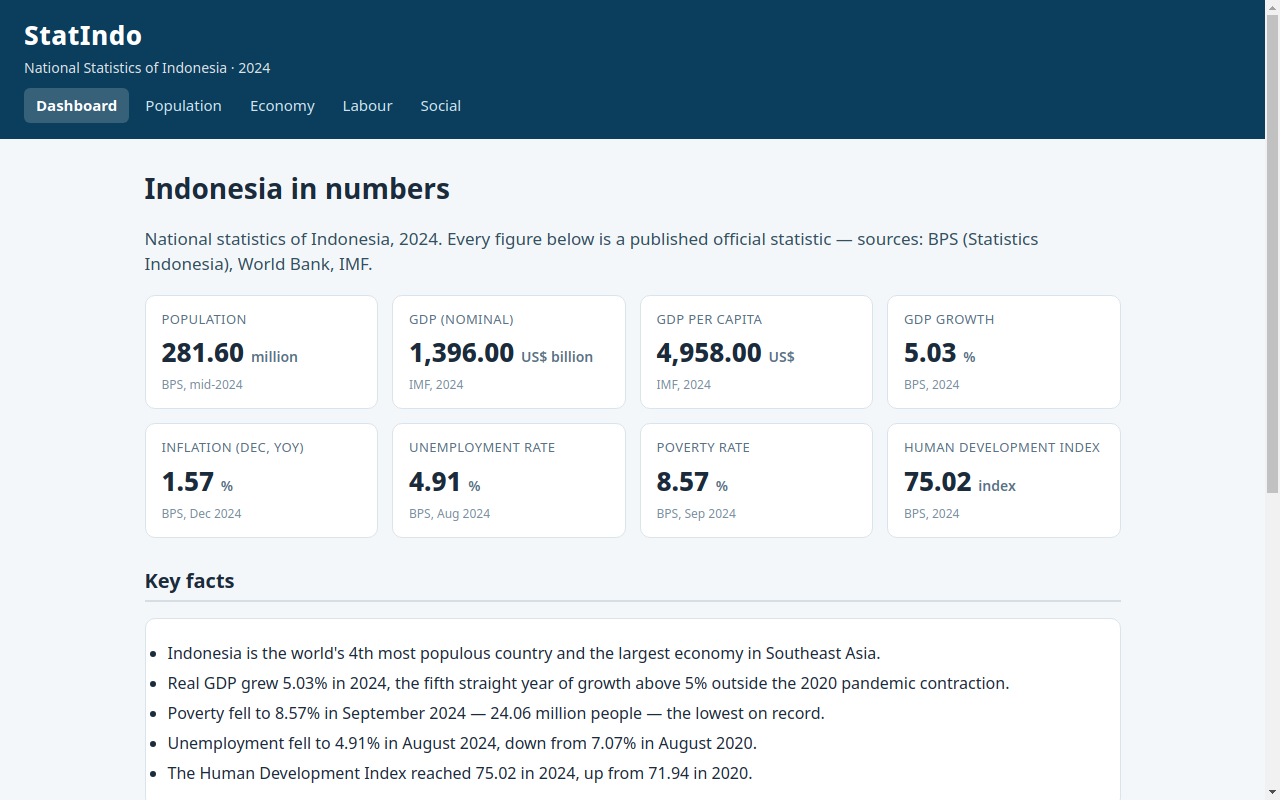
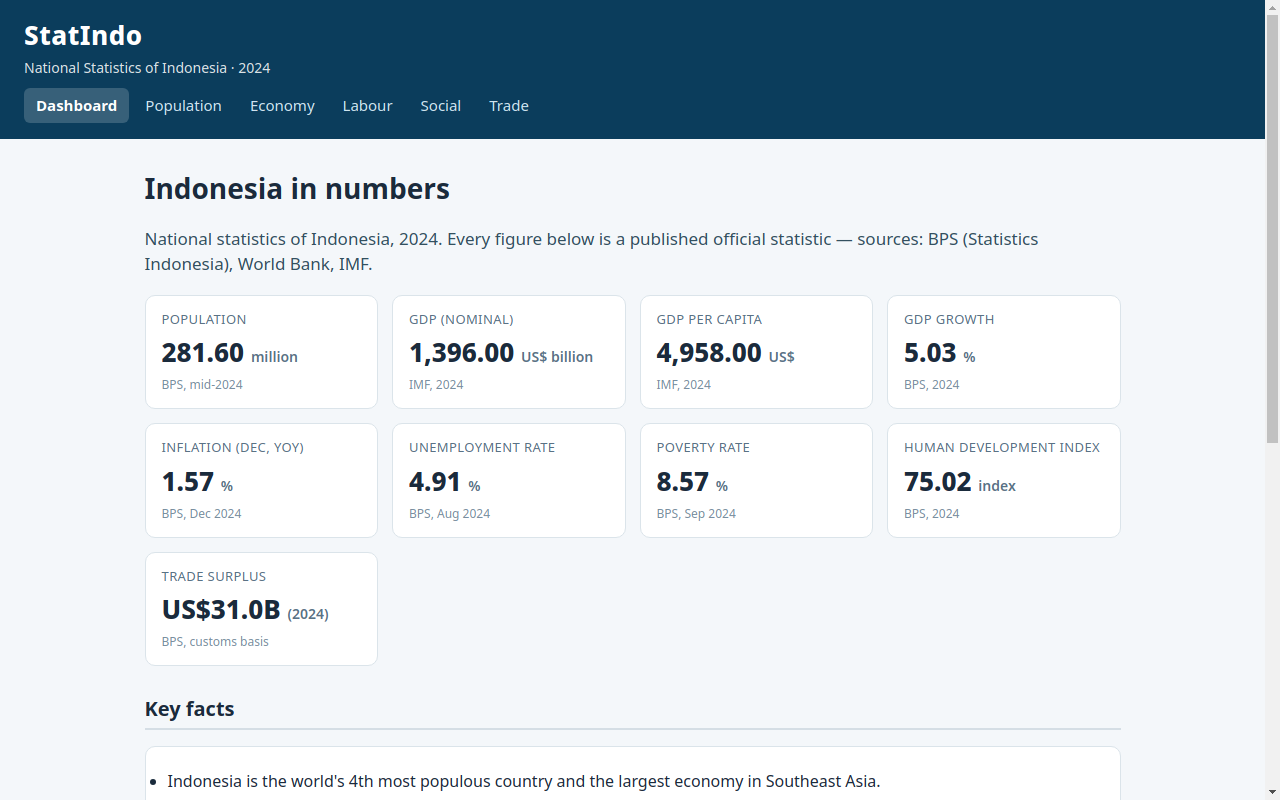
v2: add Trade & Investment view (exports/imports/FDI 2024), dashboard surplus card, new screenshots

Changed region(s): [[0.0938, 0.6875, 0.875, 1.0], [0.9688, 0.5625, 1.0, 0.625], [0.375, 0.125, 0.4062, 0.1562]]

diff --git a/app/views.js b/app/views.js
@@ -1,4 +1,4 @@
-// Shared markup keeps the five views consistent. DATA is the only data source.
+// Shared markup keeps the six views consistent. DATA is the only data source.
 const VIEWS = (() => {
   const format = (value, digits = 0) => Number(value).toLocaleString("en-US", {
     minimumFractionDigits: digits,
@@ -9,6 +9,8 @@ const VIEWS = (() => {
   const heading = text => `<h2>${text}</h2>`;
   const page = (title, description, ...content) =>
     `<h1>${title}</h1><p class="lede">${description}</p>${content.join("")}`;
+  const card = (label, value, unit, note) =>
+    `<div class="card"><div class="card-label">${label}</div><div class="card-value">${value} <span class="card-unit">${unit}</span></div><div class="card-note">${note}</div></div>`;
 
   function table(columns, rows) {
     const header = columns.map(label => `<th>${label}</th>`).join("");
@@ -34,9 +36,10 @@ const VIEWS = (() => {
       `<div class="card"><div class="card-label">${item.label}</div><div class="card-value">${format(item.value, 2)} <span class="card-unit">${item.unit}</span></div><div class="card-note">${item.note}</div></div>`
     ).join("");
     const facts = DATA.facts.map(text => `<li>${text}</li>`).join("");
+    const tradeCard = card("Trade surplus", `US$${format(DATA.trade.goods.surplus, 1)}B`, `(${DATA.trade.year})`, DATA.trade.goods.source);
     return page("Indonesia in numbers",
       `National statistics of Indonesia, ${DATA.year}. Every figure below is a published official statistic — sources: ${DATA.sources}.`,
-      `<div class="grid">${cards}</div>`,
+      `<div class="grid">${cards}${tradeCard}</div>`,
       heading("Key facts"), `<ul class="facts">${facts}</ul>`,
       heading("At a glance: growth and poverty"),
       `<div class="two-col"><div>${trend("gdpGrowth")}</div><div>${trend("poverty")}</div></div>`,
@@ -103,7 +106,50 @@ const VIEWS = (() => {
     );
   }
 
-  return { dashboard, population, economy, labour, social };
+  function trade() {
+    const values = DATA.trade;
+    const goods = values.goods;
+    const investment = values.investment;
+    const cards = [
+      card("Goods exports", `US$${format(goods.exports, 1)}`, "billion", `${goods.source}; +${format(goods.exportsGrowth, 1)}% vs 2023`),
+      card("Goods imports", `US$${format(goods.imports, 1)}`, "billion", `${goods.source}; +${format(goods.importsGrowth, 1)}% vs 2023`),
+      card("Goods trade surplus", `US$${format(goods.surplus, 1)}`, "billion", `${goods.source}; ${values.year}`),
+      card("Foreign direct investment", `IDR ${format(investment.fdi, 1)}`, "trillion", `${investment.source}; ${format(investment.fdiShare, 1)}% of investment realization`),
+    ].join("");
+    const markets = values.markets.map(market => [
+      market.rank,
+      market.name,
+      market.exports === undefined ? "—" : `US$${format(market.exports, 1)} billion`,
+    ]);
+    const investmentRows = [
+      ["Total investment realization", `IDR ${format(investment.total, 1)} trillion (+${format(investment.growth, 1)}% vs 2023)`],
+      ["Foreign direct investment (FDI)", `IDR ${format(investment.fdi, 1)} trillion (${format(investment.fdiShare, 1)}%)`],
+      ["Domestic investment", `IDR ${format(investment.domestic, 1)} trillion (${format(investment.domesticShare, 1)}%)`],
+      ["Jobs created", `${format(investment.jobs, 2)} million`],
+    ];
+    return page("Trade & Investment",
+      `Goods trade and investment realization in ${values.year}. Trade values are in US$; investment amounts are in Indonesian rupiah (IDR).`,
+      `<div class="grid">${cards}</div>`,
+      `<p>Trade surplus every month since ${goods.surplusSince} (BPS; through ${values.year}).</p>`,
+      heading(`Top export markets, ${values.year}`),
+      table(["Rank", "Market", "Goods exports"], markets),
+      source(`Source: ${values.marketSource}. China is the largest export market; United States is second and India third. — indicates no export value supplied.`),
+      heading(`Top export products (% of goods exports), ${values.year}`),
+      values.products.map(product => bar(product.name, product.share)).join(""),
+      source(`Source: ${values.productSource}. Shares are of total goods exports.`),
+      heading(`Investment realization, ${values.year}`),
+      table(["Indicator", "Value"], investmentRows),
+      source(`Source: ${investment.source}.`),
+      heading("Top FDI sectors"),
+      `<ul class="facts">${investment.topSectors.map(sector => `<li>${sector}</li>`).join("")}</ul>`,
+      source(`Source: ${investment.source}.`),
+      heading("Top FDI sources"),
+      `<ul class="facts">${investment.topSources.map(country => `<li>${country}</li>`).join("")}</ul>`,
+      source(`Source: ${investment.source}.`)
+    );
+  }
+
+  return { dashboard, population, economy, labour, social, trade };
 })();
 
 if (typeof module !== "undefined") module.exports = VIEWS;

diff --git a/app/data.js b/app/data.js
@@ -136,6 +136,44 @@ const DATA = {
     { name: "Lampung", population: 9.2 },
   ],
 
+  // Trade values are US$ billion; investment amounts are IDR trillion.
+  trade: {
+    year: 2024,
+    goods: {
+      exports: 264.7,
+      exportsGrowth: 2.3,
+      imports: 233.7,
+      importsGrowth: 5.6,
+      surplus: 31.0,
+      surplusSince: "May 2020",
+      source: "BPS, customs basis",
+    },
+    markets: [
+      { rank: 1, name: "China", exports: 68.0 },
+      { rank: 2, name: "United States" },
+      { rank: 3, name: "India" },
+    ],
+    marketSource: "BPS, 2024",
+    products: [
+      { name: "Mineral fuels & oils", share: 20.8 },
+      { name: "Animal/vegetable fats & oils", share: 11.7 },
+      { name: "Iron & steel", share: 8.6 },
+    ],
+    productSource: "UN Comtrade/BACI, 2024",
+    investment: {
+      total: 1714.2,
+      growth: 20.8,
+      fdi: 900.2,
+      fdiShare: 52.5,
+      domestic: 814.0,
+      domesticShare: 47.5,
+      jobs: 2.45,
+      topSectors: ["Basic metals", "Transport/warehouse/telecom", "Mining"],
+      topSources: ["Singapore", "Hong Kong", "China", "Malaysia", "Japan", "South Korea"],
+      source: "BKPM, 2024",
+    },
+  },
+
   facts: [
     "Indonesia is the world's 4th most populous country and the largest economy in Southeast Asia.",
     "Real GDP grew 5.03% in 2024, the fifth straight year of growth above 5% outside the 2020 pandemic contraction.",

diff --git a/app/index.html b/app/index.html
@@ -16,10 +16,11 @@
     <a href="#/economy">Economy</a>
     <a href="#/labour">Labour</a>
     <a href="#/social">Social</a>
+    <a href="#/trade">Trade</a>
   </nav>
 </header>
 <main id="app"></main>
-<footer>Sources: Statistics Indonesia (BPS), World Bank, IMF. Figures are published official statistics; see each table for its source and reference year.</footer>
+<footer>Sources: Statistics Indonesia (BPS), World Bank, IMF, BKPM, UN Comtrade/BACI. Figures are published official statistics; see each table for its source and reference year.</footer>
 <script src="data.js"></script>
 <script src="views.js"></script>
 <script src="main.js"></script>

diff --git a/app/main.js b/app/main.js
@@ -7,6 +7,7 @@
     ["/economy", "economy"],
     ["/labour", "labour"],
     ["/social", "social"],
+    ["/trade", "trade"],
   ]);
 
   const resolve = hash => routes.get(hash.replace(/^#/, "").split("?")[0]) || "dashboard";

diff --git a/README.md b/README.md
@@ -6,17 +6,20 @@
 
 [Make the best national statistics site — $50 bounty on make.fun](https://make.fun/bounty/best-national-statistics-site-20261126-0539)
 
-StatIndo presents Indonesia's national statistics for 2024 as a fast static site: a dashboard of headline indicators, plus Population, Economy, Labour and Social pages. Every figure is a published official statistic from BPS (Statistics Indonesia), the World Bank or the IMF, with the source and reference year shown on each table.
+StatIndo presents Indonesia's national statistics for 2024 as a fast static site: a dashboard of headline indicators, plus Population, Economy, Labour, Social and Trade & Investment pages. Sources include BPS (Statistics Indonesia), the World Bank, IMF, BKPM and UN Comtrade/BACI, with source and reference year labels alongside the figures.
 
 ## What it shows
 
-- **Dashboard** — 8 headline indicators (population 281.6M, GDP US$1,396B, GDP per capita US$4,958, growth 5.03%, inflation 1.57%, unemployment 4.91%, poverty 8.57%, HDI 75.02) plus key facts.
+- **Dashboard** — 8 headline indicators (population 281.6M, GDP US$1,396B, GDP per capita US$4,958, growth 5.03%, inflation 1.57%, unemployment 4.91%, poverty 8.57%, HDI 75.02), a US$31.0B trade surplus card, and key facts.
 - **Population** — 2020–2024 trend, age structure, and the 8 largest provinces.
 - **Economy** — GDP growth and inflation trends, GDP by sector.
 - **Labour** — unemployment trend and the 2024 labour market (143.1M labour force, 67.0% participation).
 - **Social** — poverty trend (8.57% in Sep 2024, the lowest on record), HDI, life expectancy, Gini.
+- **Trade & Investment** — exports US$264.7B (+2.3%), imports US$233.7B (+5.6%), surplus US$31.0B, top markets and products, and BKPM investment realization of IDR 1,714.2 trillion (+20.8%): FDI IDR 900.2 trillion (52.5%), domestic IDR 814.0 trillion (47.5%), and 2.45 million jobs; top FDI sectors and sources.
 
 ## Verify
+
+Version 2 adds `#/trade`, a sixth navigation item, and the dashboard trade surplus card; verify all six views offline against `app/data.js`, retaining every pre-existing data value and the existing screenshots.
 
 The data, stylesheet and HTML shell were rewritten with equivalent content; re-verification confirmed unchanged data, identical view HTML and a valid output dossier.
 
@@ -24,8 +27,8 @@ The data, stylesheet and HTML shell were rewritten with equivalent content; re-v
 # Build the entry output (writes dossier.json + copies app/ and screenshots/)
 MAKEFUN_OUTPUT_DIR=/tmp/statindo-verify node main.ts
 
-# Serve locally and browse the five pages
-node serve.ts   # http://localhost:8080 — #/, #/population, #/economy, #/labour, #/social
+# Serve locally and browse the six pages (where local ports are permitted)
+node serve.ts   # http://localhost:8080 — #/, #/population, #/economy, #/labour, #/social, #/trade
 ```
 
 Verified against `app/data.js`: population **281.6 million**, nominal GDP **US$1,396 billion**, GDP per capita **US$4,958**, GDP growth **5.03%**, December year-on-year inflation **1.57%**, August unemployment **4.91%**, September poverty **8.57%**, and HDI **75.02**. Labour force: **143.1 million**; participation: **67.0%**.
